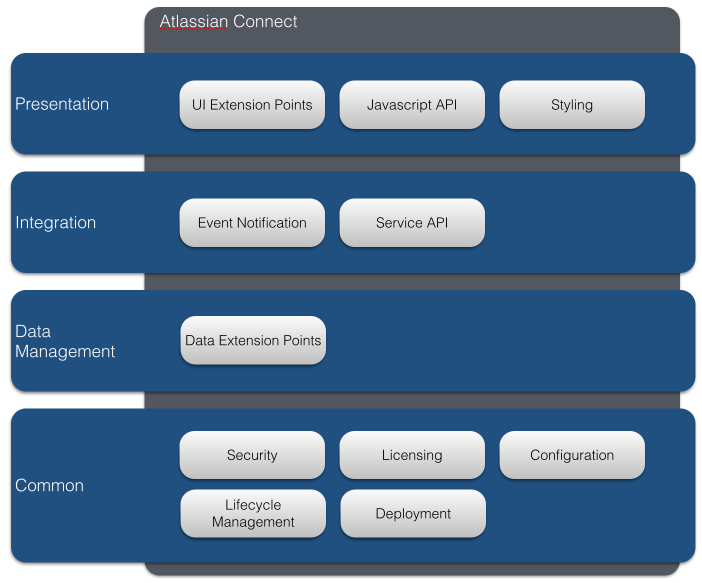
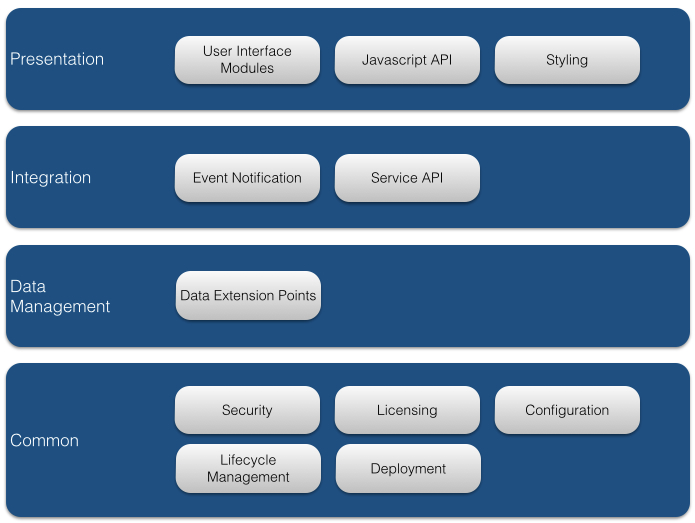
ACDEV-1120 Added a Components Summary section to provide an overview of Connect components and help navigate the documentation

diff --git a/docs/public/guides/components.md b/docs/public/guides/components.md
@@ -1,56 +1,146 @@
 # The Components of Atlassian Connect
+Now that you have read the [introduction](../guides/introduction.html) and understand what Connect is in a nutshell, this section provides 
+you with the list of components provided by Connect. This can help you navigate the documentation.
+<img src="../assets/images/components/connect-core.jpg">
+<table class="aui">
+		<tr>
+			<td>**Category**</td>
+			<td>**Component**</td>
+			<td>**Description**</td>
+			<td>**Documentation**</td>
+		</tr>
+		<tr>
+			<td>Common</td>
+			<td>Security</td>
+			<td>Atlassian Connect leverages JWT - JSON Web Token - to 
+				secure communications through service API calls and event notifications, allows add-ons to request access to a set of static scopes, 
+				and administrators to limit the data a particular add-on can access. Security is an important topic in Atlassian Connect, and we 
+				recommend you spend time reviewing this documentation to understand  what Connect provides and what the reponsibilities 
+				of your add-on are. </td>
+			<td>[Security](../concepts/security.html), [Authentication](../concepts/authentication.html), 
+				[Understanding JWT](../concepts/understanding-jwt.html)</td>
+		</tr>
+		<tr>
+			<td>Common</td>
+			<td>Licensing</td>
+			<td>Any add-on intended for sale on the Atlassian Marketplace needs to be license-enabled. Add-ons work with the atlassian
+				application to apply licensing requirements.</td>
+			<td>[Licensing](../concepts/licensing.html)</td>
+		</tr>
+		<tr>
+			<td>Common</td>
+			<td>Configuration</td>
+			<td>Most configuration for an add-on resides in an add-on descriptor file, which describes the add-on to the Atlassian application. 
+				It is where you will specify the user interface modules the add-on extends, register interests to particular events (webhooks 
+				or lifecycle notifications), specify the security scopes the add-on needs to function properly, etc. Make sure you know  
+				the structure of this descriptor like the back of your hand!</td>
+			<td>[Add-on Descriptor](../modules/)</td>
+		</tr>
+		<tr>
+			<td>Common</td>
+			<td>Lifecycle Management</td>
+			<td>When your add-on is first installed in an Atlassian product instance, Connects notifies your implementation through a callback 
+				endpoint that you provide, providing you with information on the instance and the security context you must store for future 
+				communications. You will also receive a notification when your add-on is uninstalled or disabled.</td>
+			<td>[Lifecycle](../modules/lifecycle.html)</td>
+		</tr>
+		<tr>
+			<td>Common</td>
+			<td>Deployment</td>
+			<td>You can deploy your add-on on a local version of the Atlassian product for development, on a dedicated OnDemand instance for testing, 
+				and then make the add-on available to your customers via Marketplace.</td>
+			<td>[Developing locally](../developing/developing-locally.html), [Installing in OnDemand](../developing/installing-in-ondemand.html), 
+				[Selling on MarketPlace](../developing/selling-on-marketplace.html)</td>
+		</tr>
+		<tr>
+			<td>Integration</td>
+			<td>Event Notification</td>
+			<td>Your add-on may register interest to particular events and provide a callback endpoint which will be invoked by the 
+				Atlassian product when a matching event is triggered. Some of the events you can subscribe to are product specific
+				(e.g. an issue was updated in JIRA triggers), and in this case you should read sections about Webhooks (the underlying 
+				event mechanism), others are linked to the lifecyle of your add-on (e.g. the add-on was installed on a particular instance).</td>
+			<td>[Add-on Lifecycle](../modules/lifecycle.html), 
+				[JIRA Webhooks](../modules/jira/webhooks.html), 
+				[JIRA Workflow Post Function](../modules/jira/workflow-post-function.html), 
+				[Confluence Webhooks](../modules/confluence/webhooks.html)</td>
+		</tr>
+		<tr>
+			<td>Integration</td>
+			<td>Service API</td>
+			<td>Your add-on can invoke services exposed by Atlassian products using a variety of technologies (REST, JSON-RPC, SOAP, XML-RPC) 
+				in a secured manner, using a server-to-server call, or using the Javascript API directly in a user interface page. Note that 
+				parts of the API are public (stable) with guaranteed backward compatibility, while other parts are private - we do not guarantee 
+				their backward compatibility. Before you choose the technologies you want to use to talk to Atlassian products, make sure you review 
+				their respective documentation, as some of them may be deprecated. In doubt, choose REST!</td>
+			<td>[JIRA REST](../scopes/jira-rest-scopes.html), 
+				[JIRA JSON-RPC](../scopes/jira-jsonrpc-scopes.html), 
+				[JIRA SOAP](../scopes/jira-soap-scopes.html), 
+				[Confluence REST](../scopes/confluence-rest-scopes.html), 
+				[Confluence JSON-RPC](../scopes/confluence-jsonrpc-scopes.html), 
+				[Confluence XML-RPC](../scopes/confluence-xmlrpc-scopes.html)</td>
+		</tr>
+		<tr>
+			<td>Data Management</td>
+			<td>Data Extension Points</td>
+			<td>Your add-on is responsible for storing all data for any custom fields it requires. The only exception to this rule is the concept 
+				of JIRA Entity Property, allowing add-ons to add key/value stores to JIRA entities, such as issues or projects.</td>
+			<td>[JIRA Entity Property](../modules/jira/entity-property.html)</td>
+		</tr>
+		<tr>
+			<td>Presentation</td>
+			<td>User Interface Modules</td>
+			<td>Connect enables you to extend the user interface provided by Atlassian products
+				through a number of modules (Admin page, web item, web panel, etc.), specific to each product.
+				Your add-on pages are loaded seemlessly within iframes in the user's browser.</td>
+			<td>[JIRA Module List](../modules/jira/index.html), 
+				[Confluence Module List](../modules/confluence/index.html)</td>
+		</tr>
+		<tr>
+			<td>Presentation</td>
+			<td>Javascript API</td>
+			<td>When building new UI modules, you can leverage the Javascript API provided by Connect to share
+				data between iframes, invoke a REST API exposed by an Atlassian product, and debug your implementation.</td>
+			<td>[Javascript API](../concepts/javascript-api.html)</td>
+		</tr>
+		<tr>
+			<td>Presentation</td>
+			<td>Styling</td>
+			<td>The Atlassian User Interface Library (AUI) is the framework that Atlassian uses to build our products. 
+				AUI is a library of Javascript, CSS, templates and other resources you can include in your projects. 
+				Building a user interface with AUI automatically ensures your add-on will match its target application's user interface.</td>
+			<td>[Styling Add-ons with AUI](../concepts/styling-with-aui.html)</td>
+		</tr>		
+</table>
 
-<img src="../assets/images/components/connect-core.jpg"></img>
+On top of these core components, Atlassian also provides support for client frameworks, libraries and utilities, which help you during 
+development and can help you take care of the plumbing. 
+You do not have to use them - Connect lets you choose your own technologies - but they can be really handy if you are starting from scratch:
 
 <table class="aui">
-	<thead>
-		<tr>
-			<td>
-				Category
-			</td>
-			<td>
-				Component
-			</td>
-			<td>
-				Description
-			</td>
-			<td>
-				Section
-			</td>
-		</tr>
-	</thead>
-	<tbody>
-		<tr>
-			<td rowspan="3">
-				Presentation
-			</td>
-			<td width="120">
-				UI (User Interface) Extension Points
-			</td>
-			<td>
-				Connect enables you to extend the user interface provided by Atlassian products
-				(Admin page, web item, web panel, etc.), through a number of modules, specific to each product.
-				Your pages are loaded seemlessly within iframes in the user's browser.
-			</td>
-			<td width="120">
-				[JIRA Module List]()
-				[Confluence Module List]()
-			</td>	
-		</tr>
-		
-		<tr>
-			<td>
-				Javascript API
-			</td>
-			<td>
-				When building new UI modules, you can leverage the Javascript API provided by Connect to share
-				data between iframes, invoke a REST API exposed by an Atlassian product, and debug your implementation.
-			</td>
-			<td>
-				[Javascript API]()
-			</td>	
-		</tr>
-	</tbody>
+	<tr>
+		<td>**Tool**</td>
+		<td>**Language**</td>
+		<td>**Description**</td>
+	</tr>
+	<tr>
+		<td>[atlassian-connect-play-java](https://bitbucket.org/atlassian/atlassian-connect-play-java)</td>
+		<td>Java with Play2</td>
+		<td>Client framework - automatically deploys code changes for testing; support for JWT, multi-tenancy, calls to the host application, etc.</td>
+	</tr>	
+	<tr>
+		<td>[atlassian-jwt](https://bitbucket.org/atlassian/atlassian-jwt)</td>
+		<td>Java</td>
+		<td>Support for creating, decoding and validating JWT tokens, for any Java implementation.</td>
+	</tr>
+	<tr>
+		<td>[atlassian-connect-express](https://bitbucket.org/atlassian/atlassian-connect-express)</td>
+		<td>Node.js</td>
+		<td>Client framework - automatically deploys code changes for testing, support for JWT, multi-tenancy, etc.</td>
+	</tr>
+	<tr>
+		<td>[REST API Browser](http://localhost:9000/rest-apis/product-api-browser.html)</td>
+		<td>N/A</td>
+		<td>The REST API Browser will help you get acquainted with the available APIs exposed by Atlassian products.</td>
+	</tr>
 </table>
-				
-		
+

diff --git a/docs/public/developing/operations.md b/docs/public/developing/operations.md
@@ -154,20 +154,21 @@ This is one step towards becoming Atlassian Verified.</p>
 <a name="scalability"></a>
 ### Scalability
 
-There are two ways to design your add-ons to scale with a growing number of installations and users:
+Theres are mainly two ways to design your add-ons to scale with a growing number of installations and users:
 
 - Vertical scaling: you scale by adding more resources (e.g. CPU, memory) to existing nodes
 - Horizontal scaling: you scale by adding more nodes (e.g. servers) 
 
-It may be difficult to predict exactly how much resources your add-ons will need. For this reason, and because 
+It may be difficult to predict exactly how much resources your add-ons will need at first. For this reason, and because 
 your add-ons will be operating in a cloud environment targetting thousands of customers, we encourage you to design 
-your add-ons to scale horizontally. This will of course depend on your hosting strategy.
+your add-ons to scale horizontally. You will hit the upper limits of vertical scalability way before it happens for a 
+horizontally scaling model. Of course, this will depend on your hosting strategy.
 
 Existing cloud platforms can help you scale your implementations. One example of is [Heroku](www.heroku.com), 
 a cloud application platform that can host applications developed in Java, Node.js, Pyton, Ruby, Scala or Closure. 
 Heroku leverages [Amazon AWS](http://www.aws.amazon.com) (Amazon Web Services) technology, and mostly supports horizontal 
 scaling. Other examples include [Google Cloud](http://cloud.google.com) and [SalesForce1](www.salesforce.com/salesforce1). 
-These platforms are built to help you scale for the web. 
+These platforms are built to help you scale for the web.  
 <a name="perftesting"></a>
 ### Performance testing
 We recommend you run performance tests for your add-ons. This will help you define the resources required 
@@ -225,7 +226,9 @@ You should run performance tests for your add-ons:
 limited to your implementation.
 - Using a real-life deployment environment for end-to-end performance tests. For this we recommend you use a performance testing 
 environment that is as close as possible to the production environment. You should set up instances of Atlassian OnDemand products 
-for this purpose. 
+for this purpose. If you haven't already done so, you can contact Atlassian to receive access to OnDemand instances for an 
+unlimited number of users at a discounted price for testing, as described on the 
+[MarketPlace Contributor Discount for Atlassian OnDemand](https://developer.atlassian.com/display/MARKET/Marketplace+Contributor+Discount+for+Atlassian+OnDemand) page.
 
 There are a number of tools to help you design and run performance tests for your add-ons. One example of 
 Java Load Testing Framework is [The Grinder](http://grinder.sourceforge.net), that helps you run a distributed 
@@ -242,10 +245,11 @@ thresholds are met. To start with, you should at least monitor the utilization o
 ## Maintenance Windows
 
 For more information on how to upgrade your add-on, you should read the [Upgrading your Add-on](upgrades.html) section.
-Although you can decide when to upgrade your add-ons, as much as possible you should aim to align with the 
-[Atlassian OnDemand Maintenance Windows](https://confluence.atlassian.com/display/AOD/Atlassian+OnDemand+maintenance+windows) 
-as it will minimize disruption for your customers. You should define your standard maintenance windows and publish them with
-your [Service Level Agreement](#sla)
+You can decide when to upgrade your add-ons, and this can be completely decoupled from the 
+[Atlassian OnDemand Maintenance Windows](https://confluence.atlassian.com/display/AOD/Atlassian+OnDemand+maintenance+windows). 
+Your goal should be to minimize disruption for your customers. With a robust design, you should be able to deploy updates of your add-ons 
+transparently for end users. If this is not possible, you should at least document your standard maintenance windows and publish them 
+along with your [Service Level Agreement](#sla). 
 
 <div class="aui-message success">
 	    <p class="title">
@@ -270,7 +274,7 @@ Hope for the best, plan for the worst!
 
 Note that using an enterprise-class cloud provider can largely minimise the risk of a major outage impacting your add-ons. 
 For example, [Heroku](http://www.heroku.com) automatically restores (and withing applications deployed on the platform, and Postgres 
-databases, in case of a outage in one of their data centres, within seconds.  
+databases, in case of a outage in one of their data centres, within seconds. 
 
 <a name="support"></a>
 ## Support
@@ -278,7 +282,10 @@ databases, in case of a outage in one of their data centres, within seconds.
 First, check out the [Atlassian Support Offerings](https://confluence.atlassian.com/display/Support/Atlassian+Support+Offerings). 
 We are well known for our great support! 
 Then, have a look at the [Atlassian Verified Program](https://developer.atlassian.com/display/MARKET/The+Atlassian+Verified+program) 
-which lists some great recommendations for you to provide support to your customers for add-ons.
+which lists some great recommendations for you to provide support to your customers for add-ons. 
+
+On top of these suggestions, we recommend you document a self-service "troubleshooting" page that your clients can access when 
+facing issues with your add-ons. This page should be referenced in a standard error page. 
 
 
 
